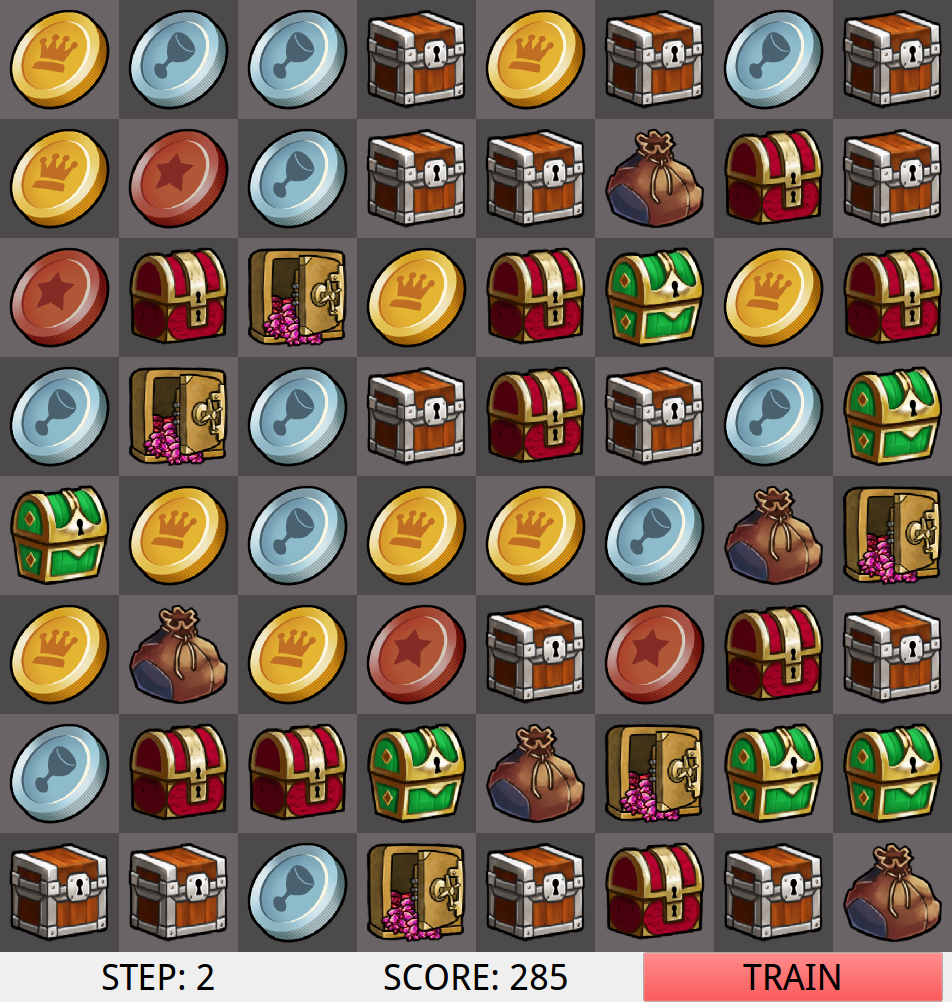
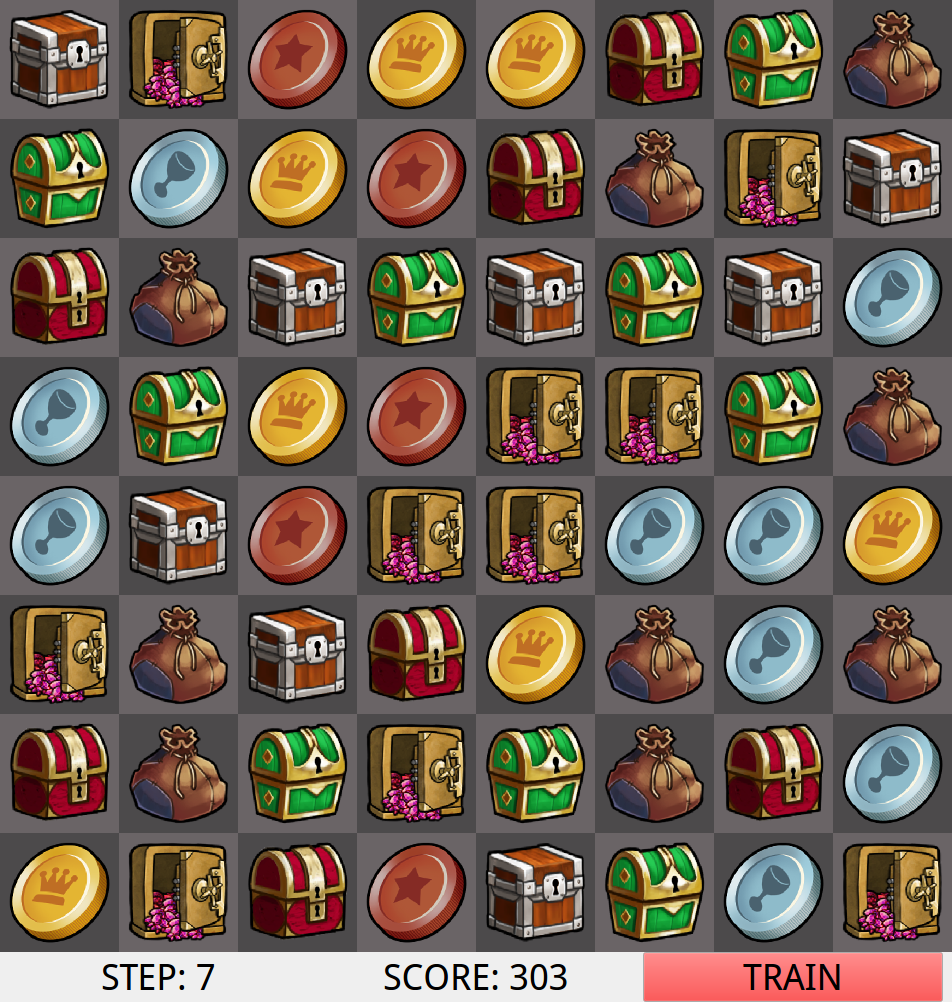
TODO: judge is there no step

diff --git a/auto_match_game/envs/auto_match_game_env.py b/auto_match_game/envs/auto_match_game_env.py
@@ -113,12 +113,27 @@ class AutoMatchGameEnv(gym.Env):
                 self.ui.label_list[x * UIC.reward_row + y - 1].setPalette(pe)
 
         if flag1:
-            self.calc_reward()
-            self.game_steps -= 1
+            grid_test = self.grid_result.copy()
+            grid_old_result = self.grid_result.copy()
+            self.grid_result = self.get_match_result(grid_test)
+            if not ((self.grid_result == grid_old_result).all()):
+                self.game_steps -= 1
+                self.calc_reward()
+            else:
+                if direction == 0:
+                    if x - 1 >= 0:
+                        self.grid_result[x - 1][y], self.grid_result[x][y] = self.grid_result[x][y], self.grid_result[x - 1][y]
+                if direction == 1:
+                    if y + 1 <= EC.grid_col - 1:
+                        self.grid_result[x][y + 1], self.grid_result[x][y] = self.grid_result[x][y], self.grid_result[x][y + 1]
+                if direction == 2:
+                    if x + 1 <= EC.grid_row - 1:
+                        self.grid_result[x + 1][y], self.grid_result[x][y] = self.grid_result[x][y], self.grid_result[x + 1][y]
+                if direction == 3:
+                    if y - 1 >= 0:
+                        self.grid_result[x][y - 1], self.grid_result[x][y] = self.grid_result[x][y], self.grid_result[x][y - 1]
         else:
             print(action, direction)
-
-        self.match_result()
 
         if self.game_steps == 0:
             self.ui.amg_thread.done = True
@@ -132,8 +147,11 @@ class AutoMatchGameEnv(gym.Env):
             pixmap = pixmap.scaled(*UIC.scale_size)
             self.ui.label_list[position[0] * UIC.reward_row + position[1]].setPixmap(pixmap)
         self.generate_grid_result()
+        grid_test = self.grid_result.copy()
+        self.grid_result = self.get_match_result(grid_test)
 
     def render(self, mode='human'):
+        print(f'grid_result: {self.grid_result}')
         self.ui.step_label.setText(f'STEP: {self.game_steps}')
         self.ui.score_label.setText(f'SCORE: {self.ui.amg_thread.reward}')
         for position in self.ui.positions:
@@ -201,5 +219,104 @@ class AutoMatchGameEnv(gym.Env):
                 direction = np.random.randint(0, 4)
         return direction
 
-    def match_result(self):
-        pass
+    def get_match_result(self, grid):
+        match_flag = -1
+        result_row = self.match(grid)
+        result_col = self.match(grid, reverse=True)
+        result_temp = []
+        if result_row == [] and result_col != []:
+            for item_col in result_col:
+                result_temp.append(item_col)
+        elif result_col == [] and result_row != []:
+            for item_row in result_row:
+                result_temp.append(item_row)
+        elif result_col != [] and result_row != []:
+            for item_row in result_row:
+                for item_col in result_col:
+                    if item_row & item_col != set():
+                        result_temp.append(item_row | item_col)
+                    else:
+                        result_temp.append(item_row)
+                        result_temp.append(item_col)
+        result = []
+        print(result_temp)
+        print(len(result_temp))
+        for i in range(len(result_temp)):
+            flag = False
+            for j in range(len(result_temp)):
+                if i != j:
+                    if result_temp[i].issubset(result_temp[j]):
+                        flag = True
+            if not flag:
+                result.append(result_temp[i])
+
+        print(f'result: {result}')
+        if result != []:
+            for i, item in enumerate(result):
+                x, y = max(item)
+                result[i].remove((x, y))
+                grid[x][y] += 1
+            for group in result:
+                for item in group:
+                    grid[item[0]][item[1]] = match_flag
+
+        grid_temp = []
+        for i in range(grid.shape[1]):
+            col = grid[:, i]
+            col_prefix = [match_flag] * len(col[np.where(col == match_flag)])
+            col = [item for item in col if item != match_flag]
+            col_prefix.extend(col)
+            col = col_prefix
+            grid_temp.append(col)
+        grid_temp = np.array(grid_temp, dtype=np.int)
+        grid_temp = grid_temp.transpose()
+        x, y = np.where(grid_temp == match_flag)
+        for x_item, y_item in zip(x, y):
+            grid_temp[x_item][y_item] = np.random.randint(0, 8)
+
+        if result == []:
+            return grid
+        else:
+            return self.get_match_result(grid_temp)
+
+    def match(self, grid, reverse=False):
+        result = []
+        if reverse:
+            grid_copy = grid.transpose().copy()
+        else:
+            grid_copy = grid.copy()
+        for i in range(EC.grid_row):
+            c_item = None
+            p_item = None
+            n = 1
+            for j in range(EC.grid_col):
+                c_item = grid_copy[i][j]
+                if j != 0:
+                    p_item = grid_copy[i][j - 1]
+                if p_item == c_item:
+                    n += 1
+                    if j == EC.grid_col - 1:
+                        if n >= 3:
+                            k_list = []
+                            if p_item < EC.reward_category - 1:
+                                if reverse:
+                                    for k in range(1, n + 1):
+                                        k_list.append((j - k, i))
+                                else:
+                                    for k in range(1, n + 1):
+                                        k_list.append((i, j - k))
+                                result.append(set(k_list))
+                        n = 1
+                else:
+                    if n >= 3:
+                        k_list = []
+                        if p_item < EC.reward_category - 1:
+                            if reverse:
+                                for k in range(1, n + 1):
+                                    k_list.append((j - k, i))
+                            else:
+                                for k in range(1, n + 1):
+                                    k_list.append((i, j - k))
+                            result.append(set(k_list))
+                    n = 1
+        return result

diff --git a/auto_match_game/envs/config.py b/auto_match_game/envs/config.py
@@ -1,6 +1,6 @@
 class AutoMatchGameEnvConfig:
-    train_max_epochs = 5
-    train_max_steps = 10
+    train_max_epochs = 50
+    train_max_steps = 100
 
     game_steps = 10
 

diff --git a/main.py b/main.py
@@ -7,4 +7,3 @@ if __name__ == '__main__':
     app = QApplication(sys.argv)
     env = gym.make('auto-match-game-v0')
     sys.exit(app.exec_())
-
